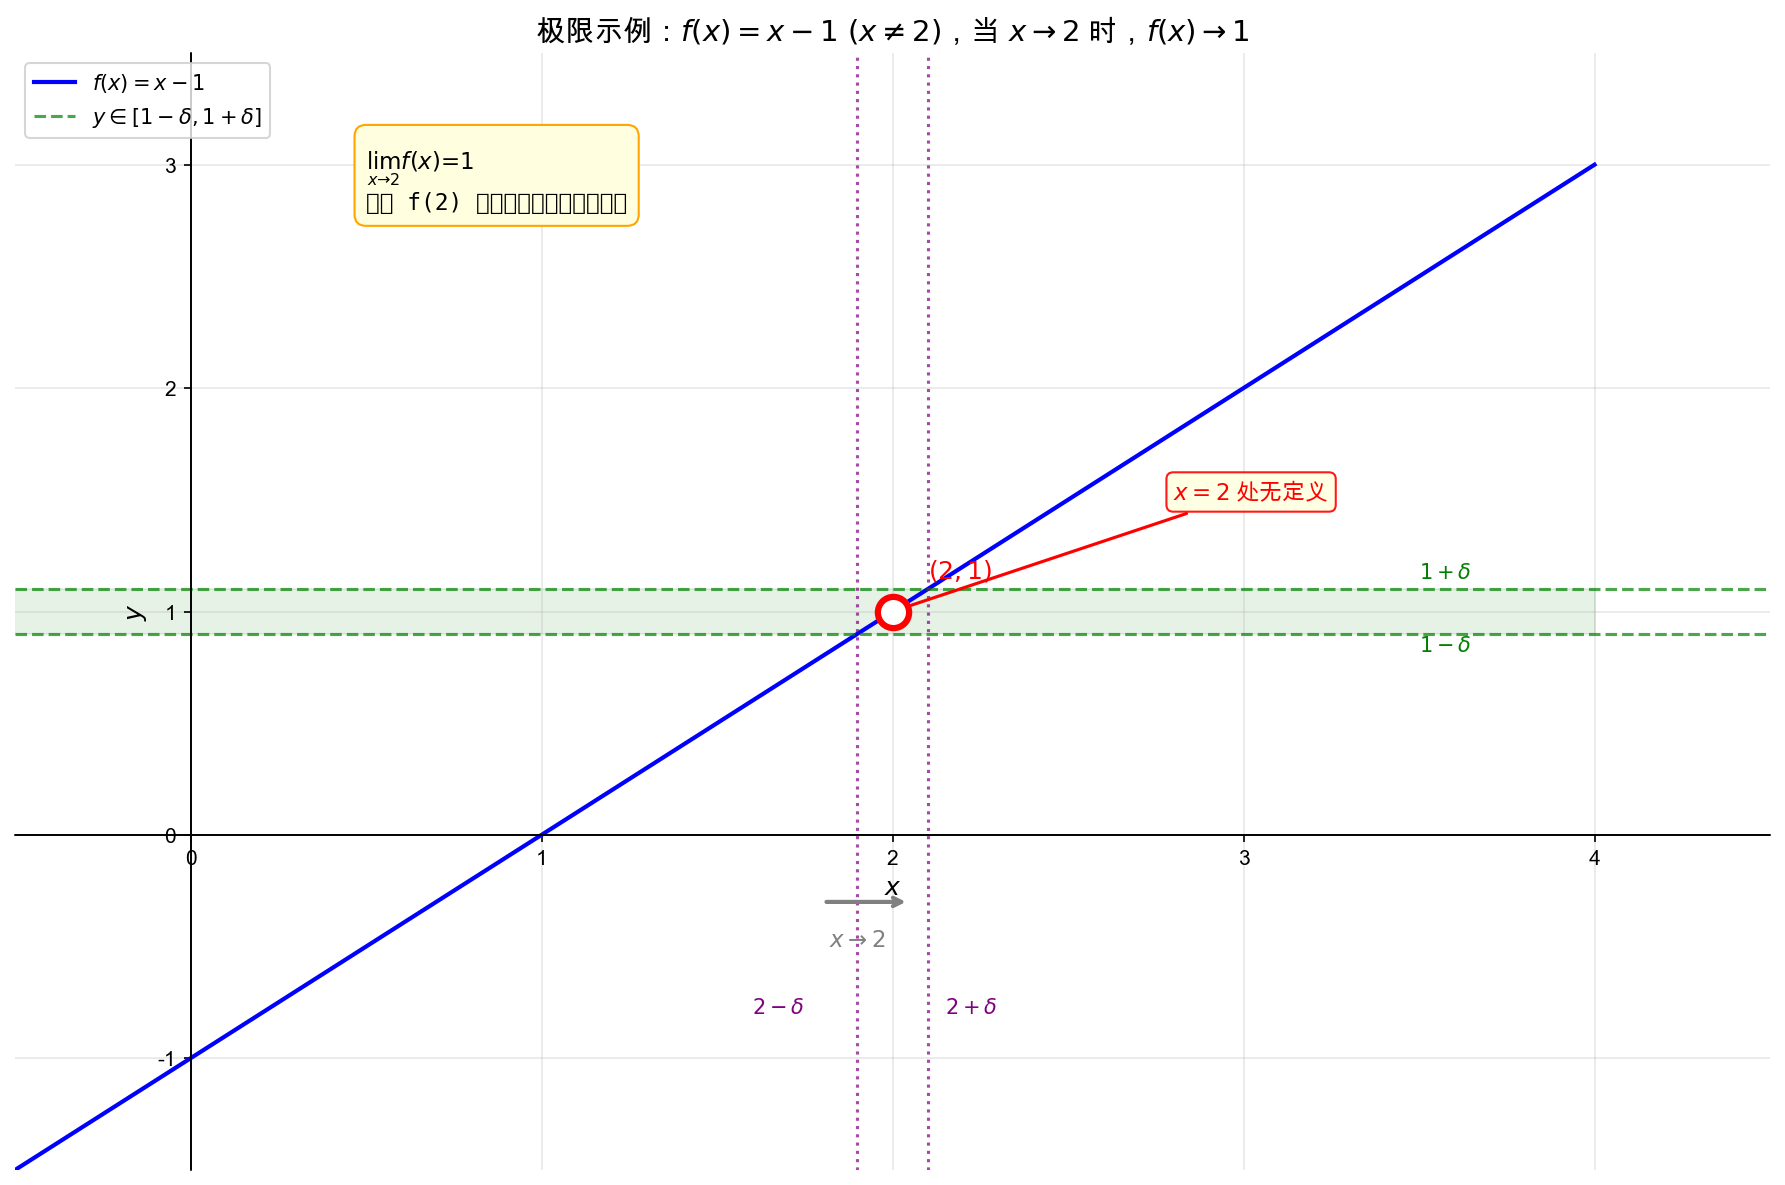
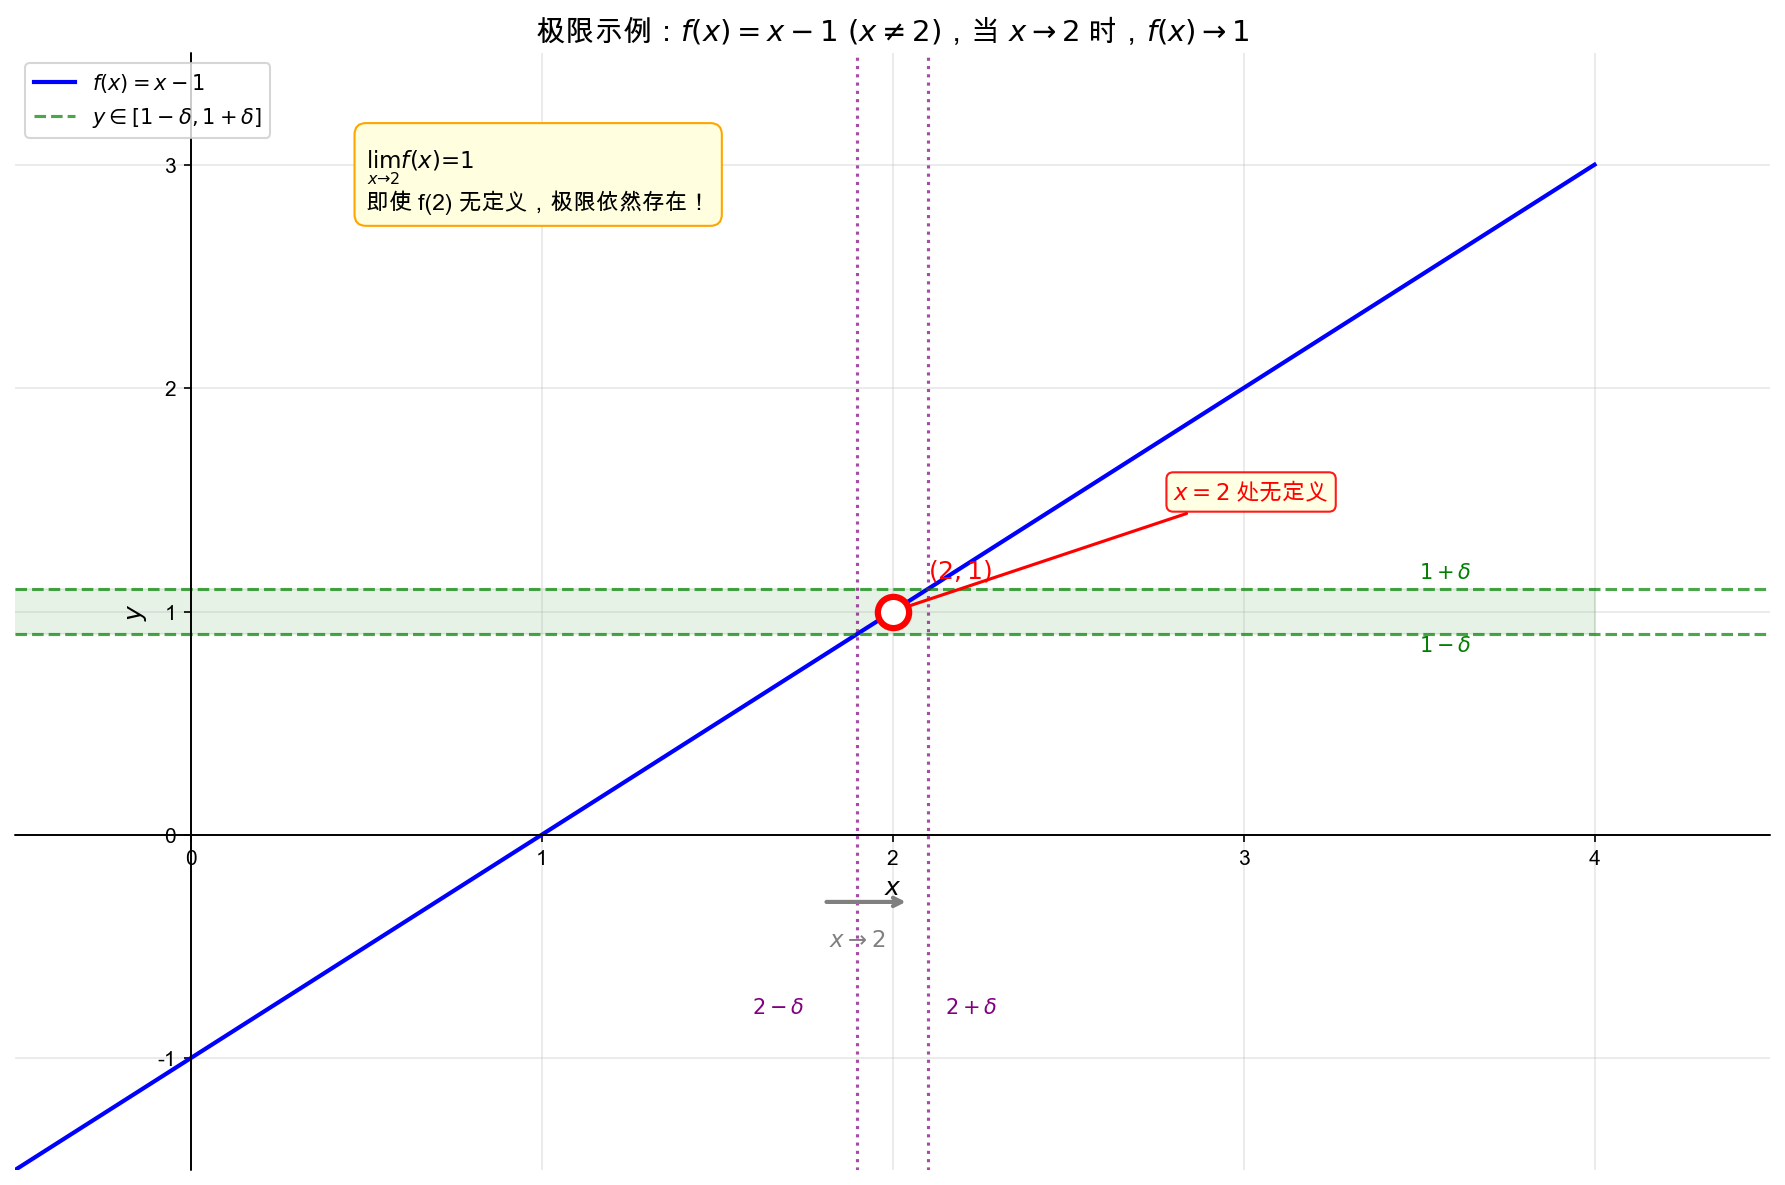
fix: 修复matplotlib配图中monospace字体导致中文无法显示的问题
- 移除3.1_配图.py中family='monospace'参数
- 重新生成3.1_图1_函数洞.png
- 在CLAUDE.md中添加matplotlib配图经验文档

Changed region(s): [[0.1849, 0.0937, 0.4314, 0.2186]]

diff --git a/第三章极限导论/3.1_配图.py b/第三章极限导论/3.1_配图.py
@@ -83,8 +83,7 @@ def draw_function_with_hole():
         "即使 f(2) 无定义，极限依然存在！"
     )
     ax.text(0.5, 2.8, note_text, fontsize=11,
-           bbox=dict(boxstyle='round,pad=0.5', facecolor='lightyellow', edgecolor='orange'),
-           family='monospace')
+           bbox=dict(boxstyle='round,pad=0.5', facecolor='lightyellow', edgecolor='orange'))
 
     plt.tight_layout()
     plt.savefig('./imgs/3.1_图1_函数洞.png', dpi=150, bbox_inches='tight', facecolor='white')

diff --git a/CLAUDE.md b/CLAUDE.md
@@ -65,3 +65,15 @@ python3 *.py
 - 无需运行测试、构建或 lint 命令
 - 编辑时保持 Markdown 格式和 LaTeX 数学公式的正确性
 - 生成配图时优先使用虚拟环境中的 Python
+
+## matplotlib 配图经验
+
+### 中文字体显示问题
+**问题**：配图中使用 `family='monospace'`（等宽字体）导致中文无法显示。
+
+**原因**：等宽字体族不包含中文字体，matplotlib 会降级到默认字体但无法渲染中文。
+
+**教训**：
+- 绘制包含中文的文本时，**禁止使用** `family='monospace'`、`family='Courier'` 等等宽字体
+- 只使用 sans-serif 字体族（matplotlib 默认已配置 Hiragino Sans GB 等中文字体）
+- 如果需要等宽外观用于数学公式，使用 `family='serif'` 或不指定 family
